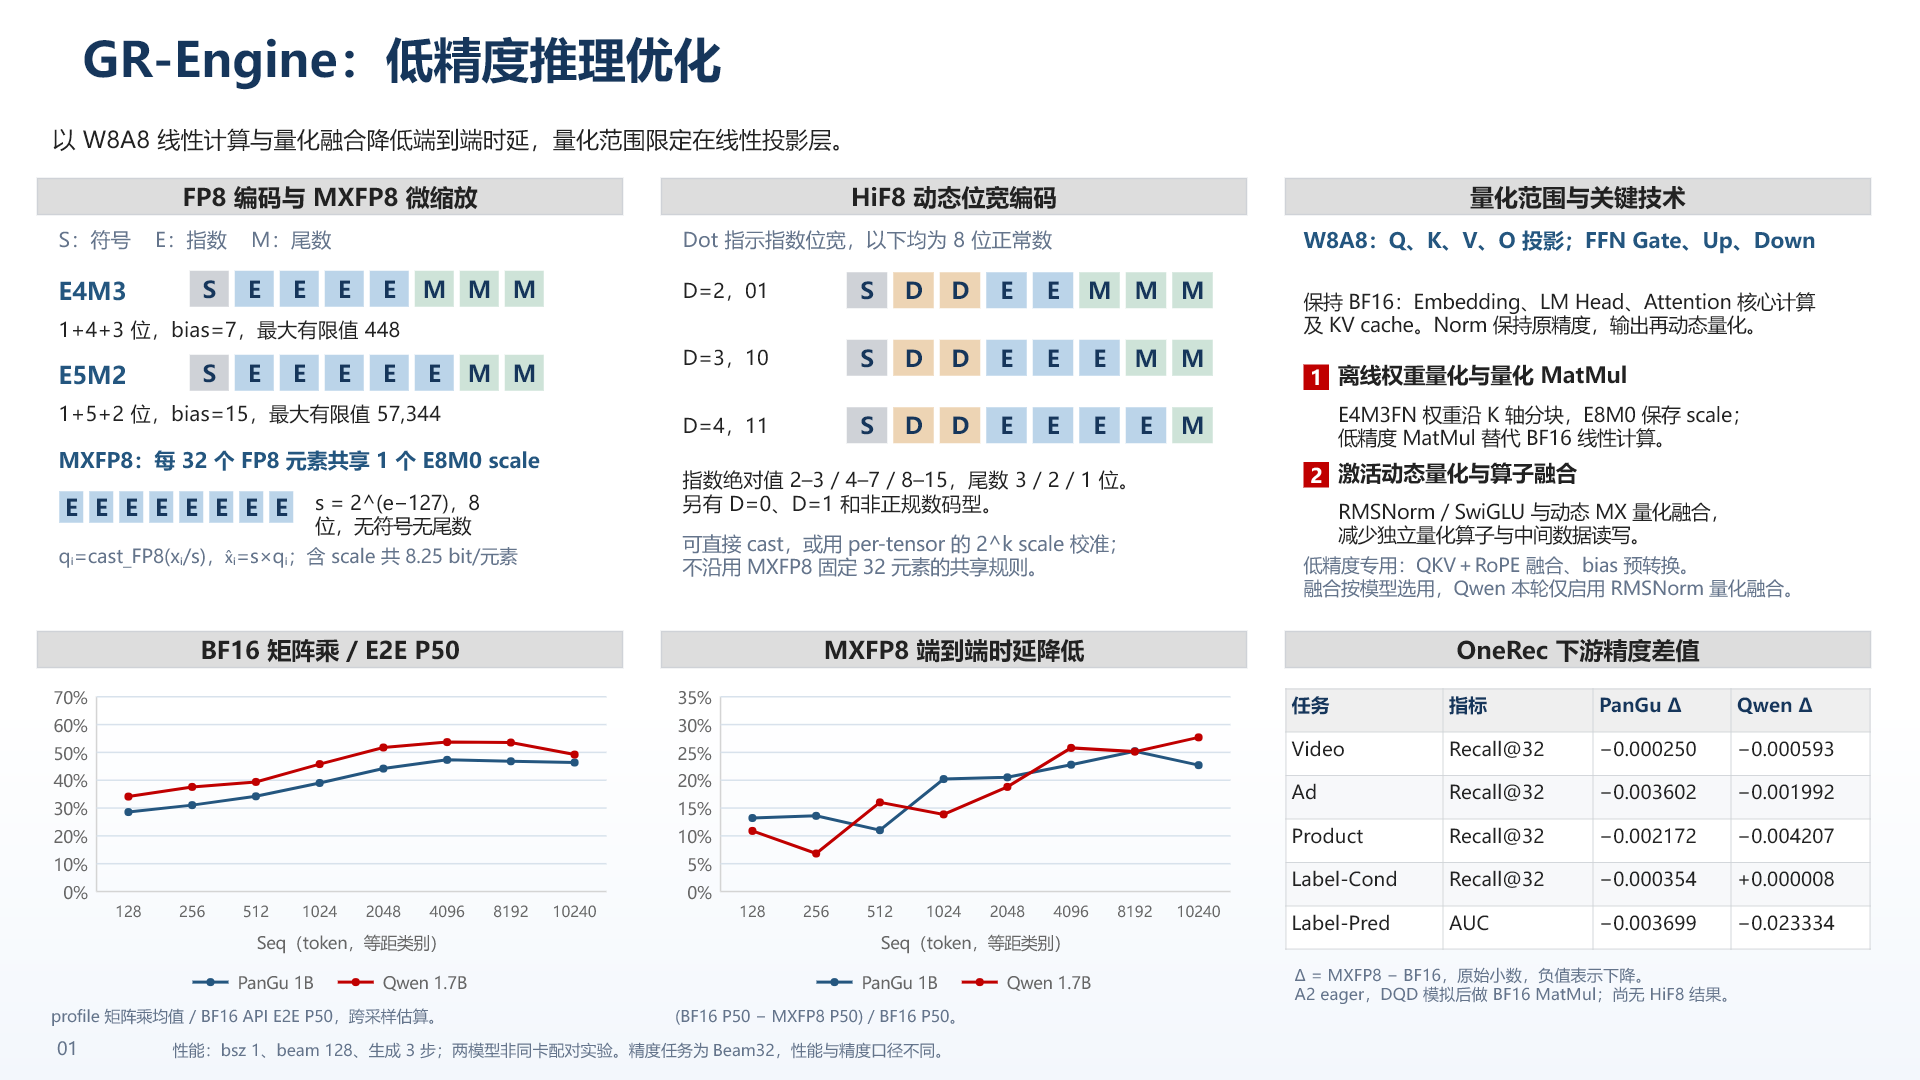
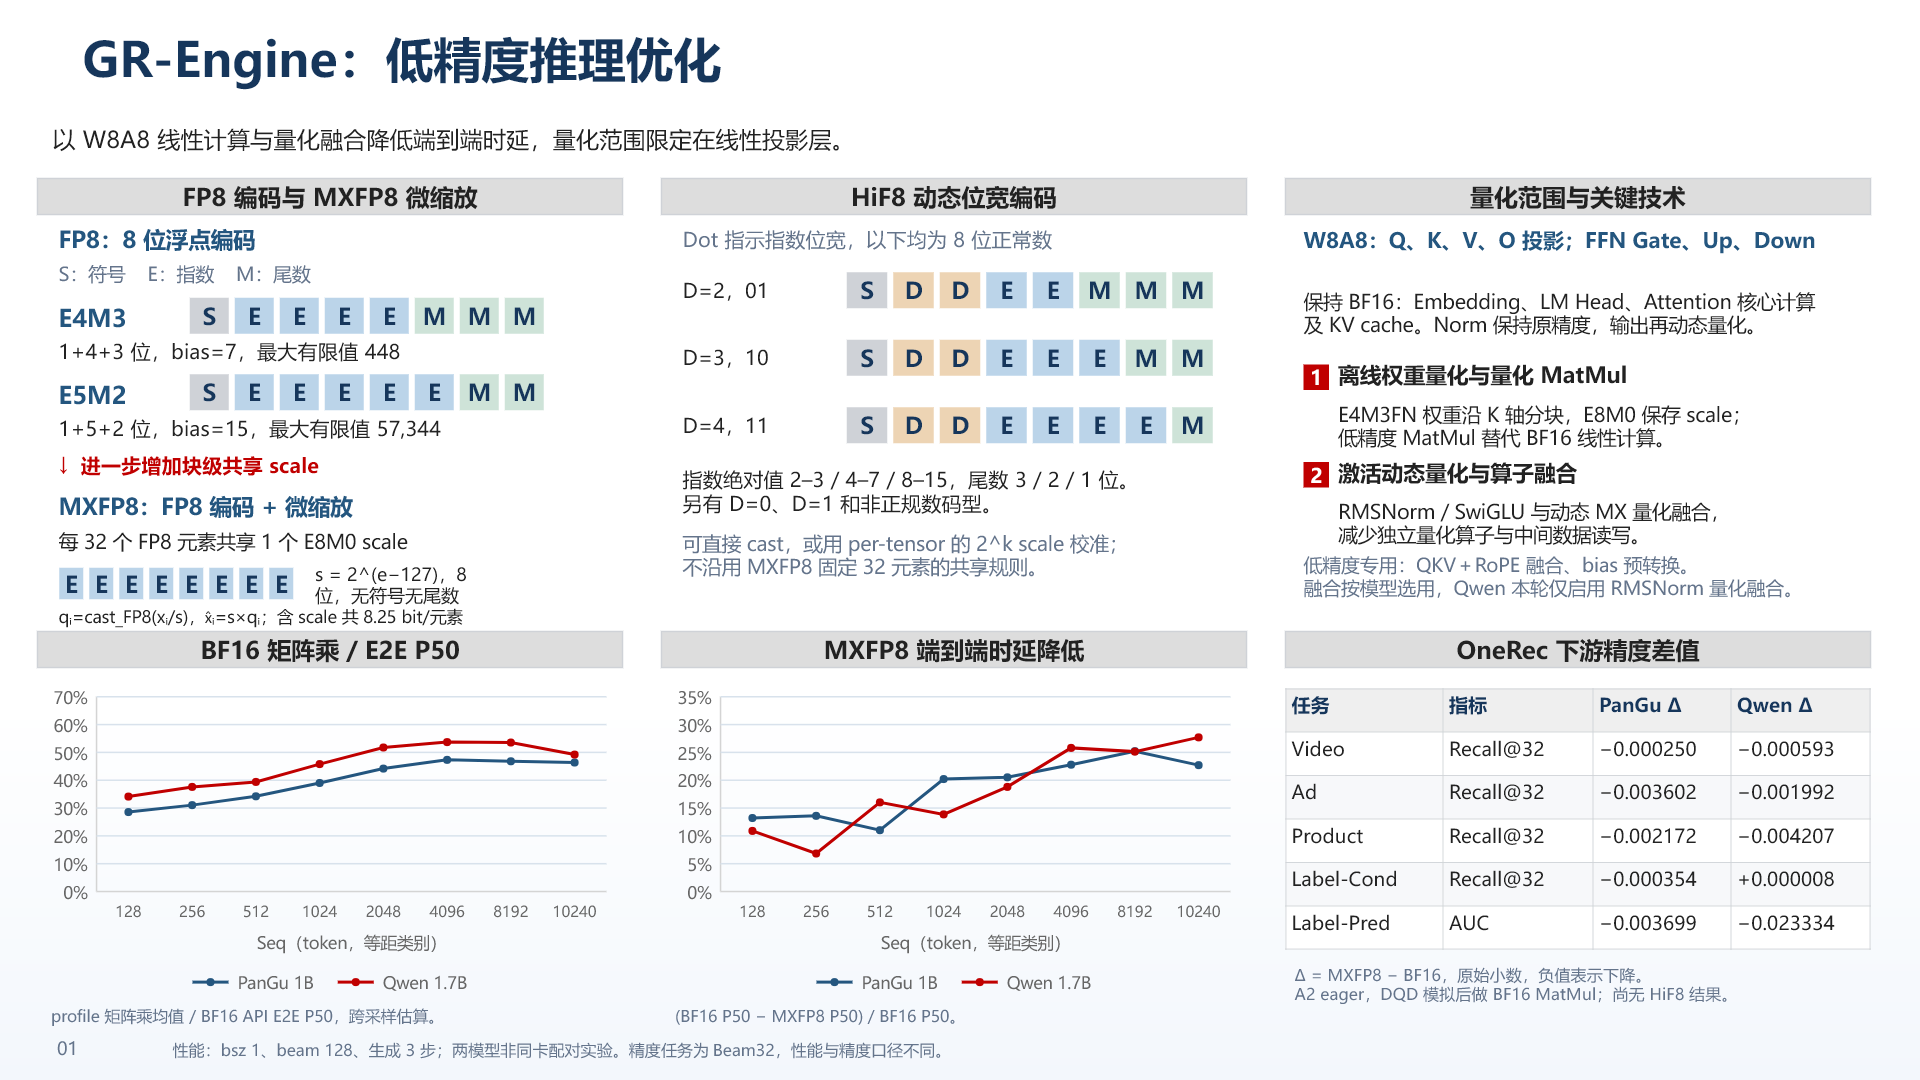
docs: distinguish FP8 encoding from MXFP8 shared scaling

Changed region(s): [[0.0312, 0.2139, 0.2812, 0.5806]]

diff --git a/README.md b/README.md
@@ -8,7 +8,7 @@
 
 [下载单页 PowerPoint：Recall@32 与 AUC](slides/onerec-recall32-auc.pptx)
 
-[下载单页 PowerPoint：社区分享风格：量化原理、模块、低精度优化与实验结果](slides/mxfp8-hif8-community-style.pptx) · [查看预览](assets/mxfp8-hif8-community-style.png)
+[下载单页 PowerPoint：社区分享风格：量化原理、模块、低精度优化与实验结果](slides/mxfp8-hif8-community-style-v2.pptx) · [查看预览](assets/mxfp8-hif8-community-style.png)
 
 ![PanGu 1B 与 Qwen 1.7B 的 BF16 矩阵乘 E2E 占比估算和 MXFP8 时延降幅](assets/fp8-comparison.png)
 
